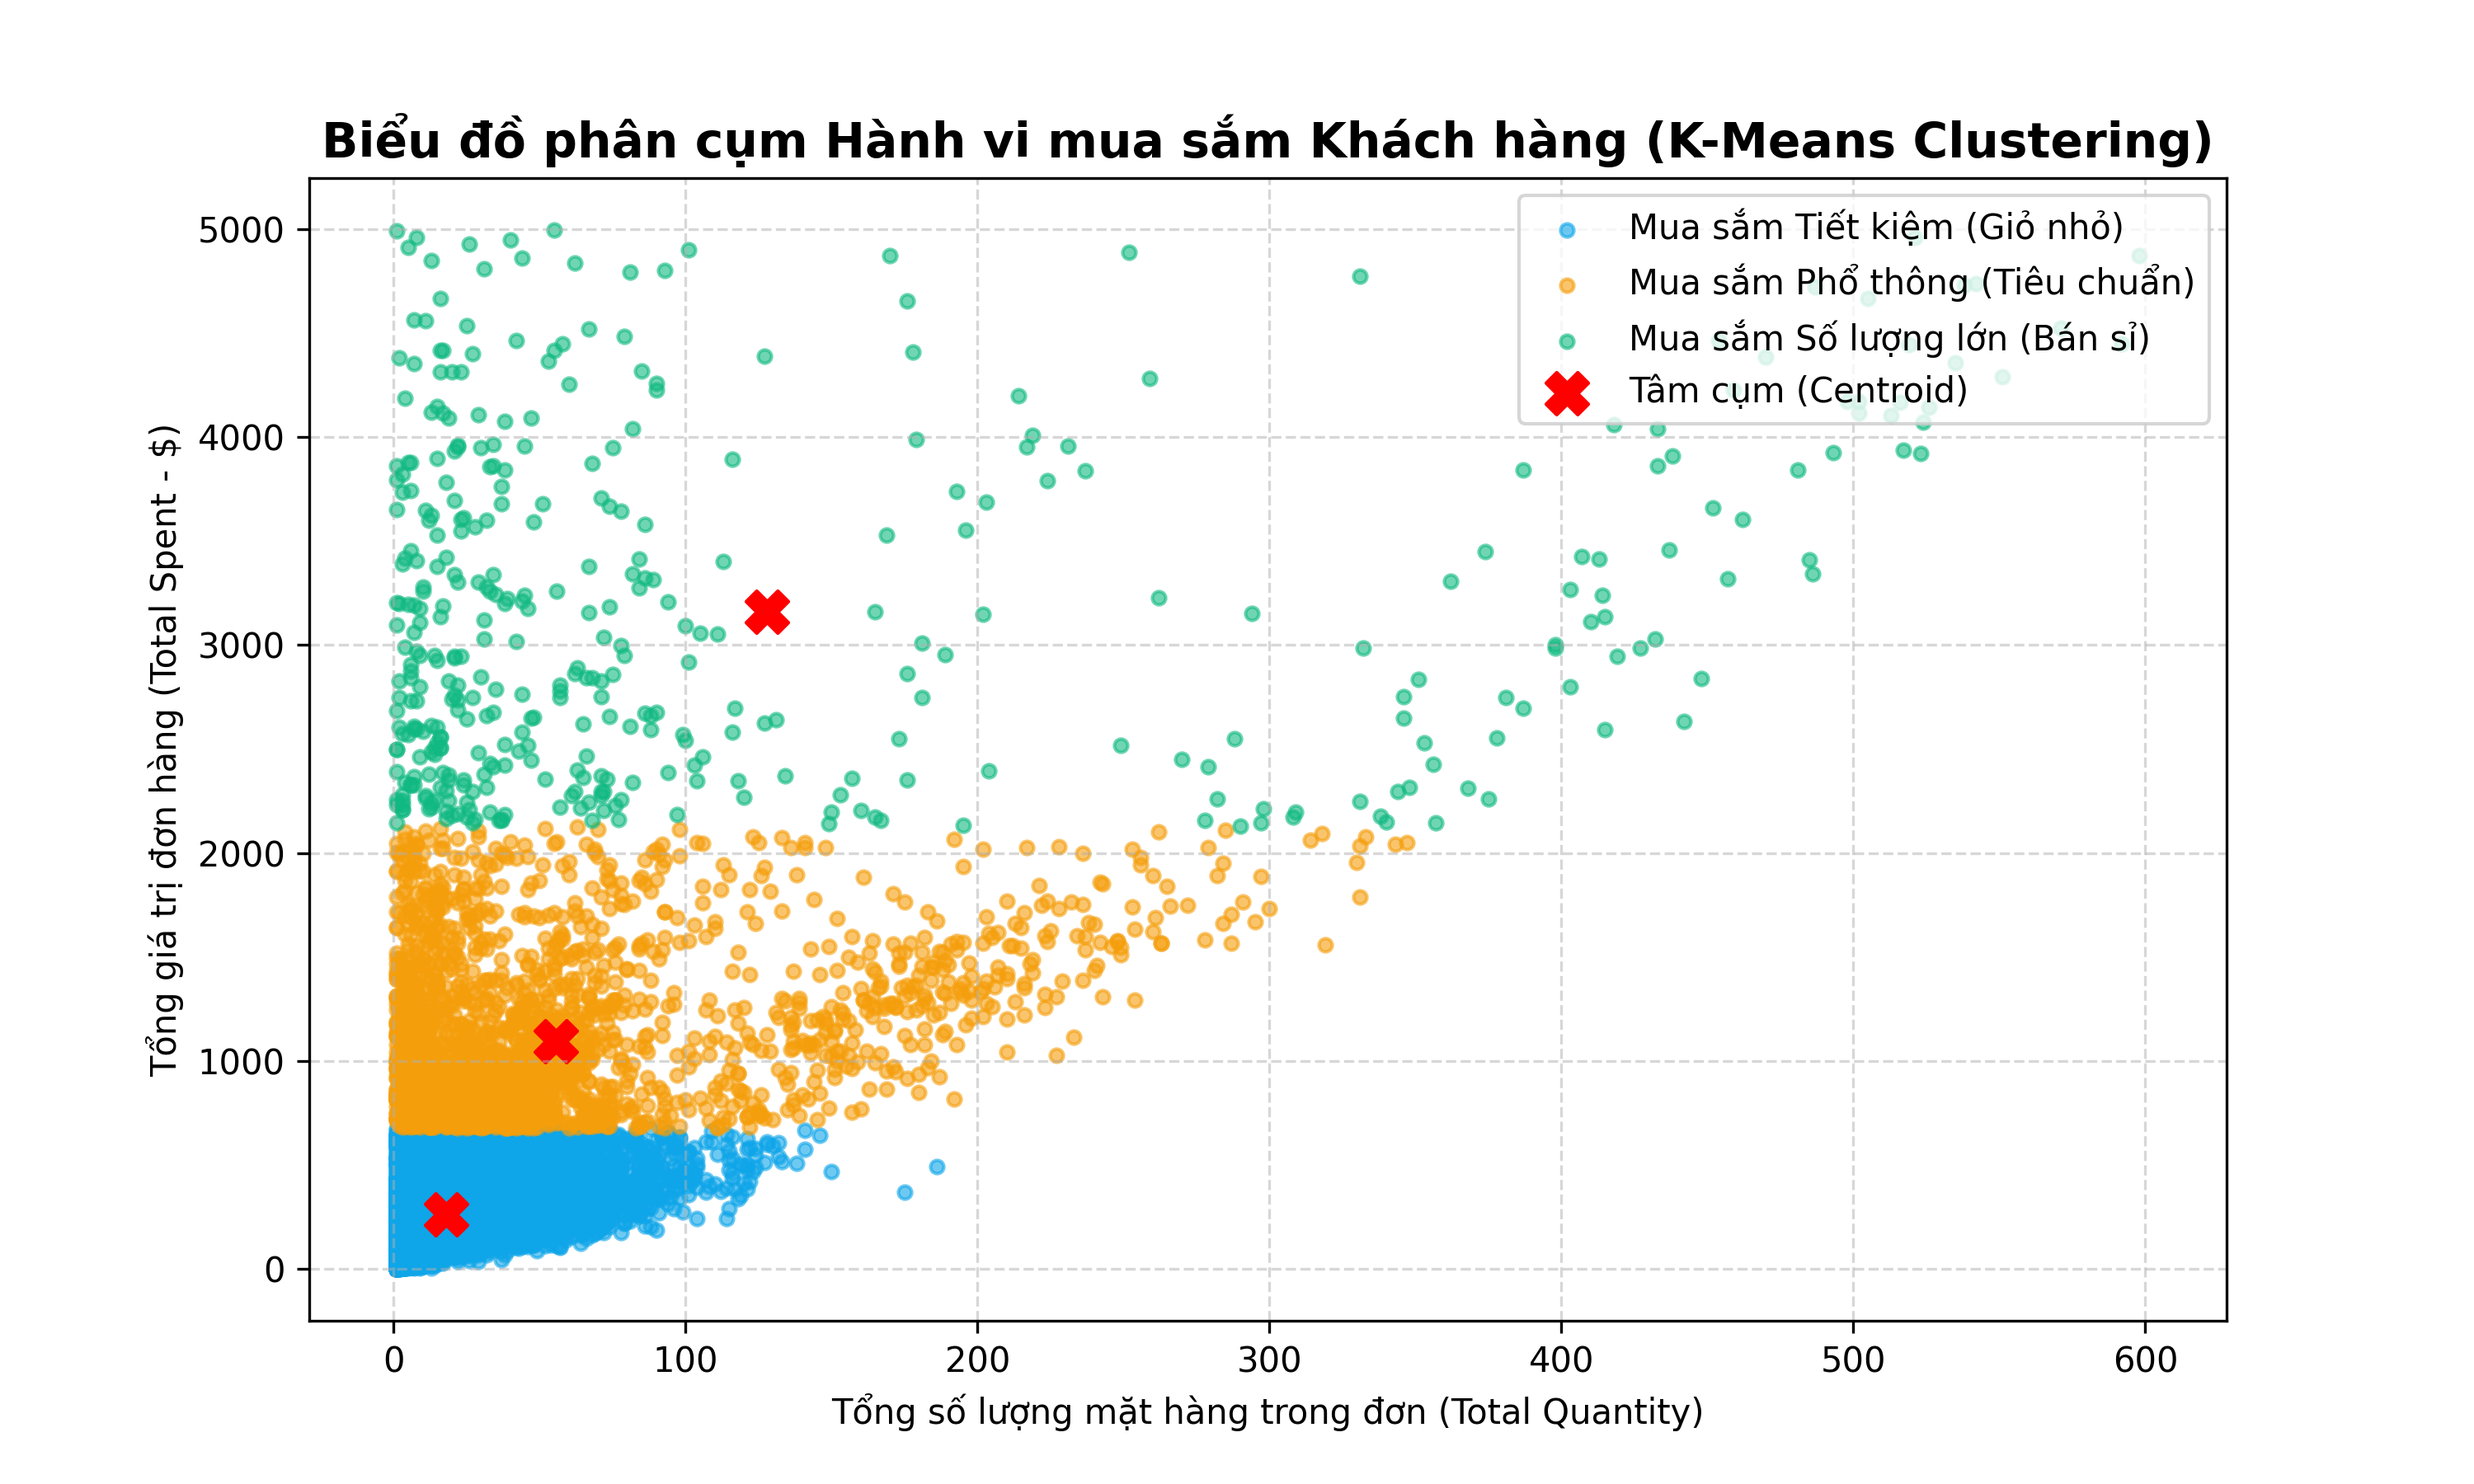
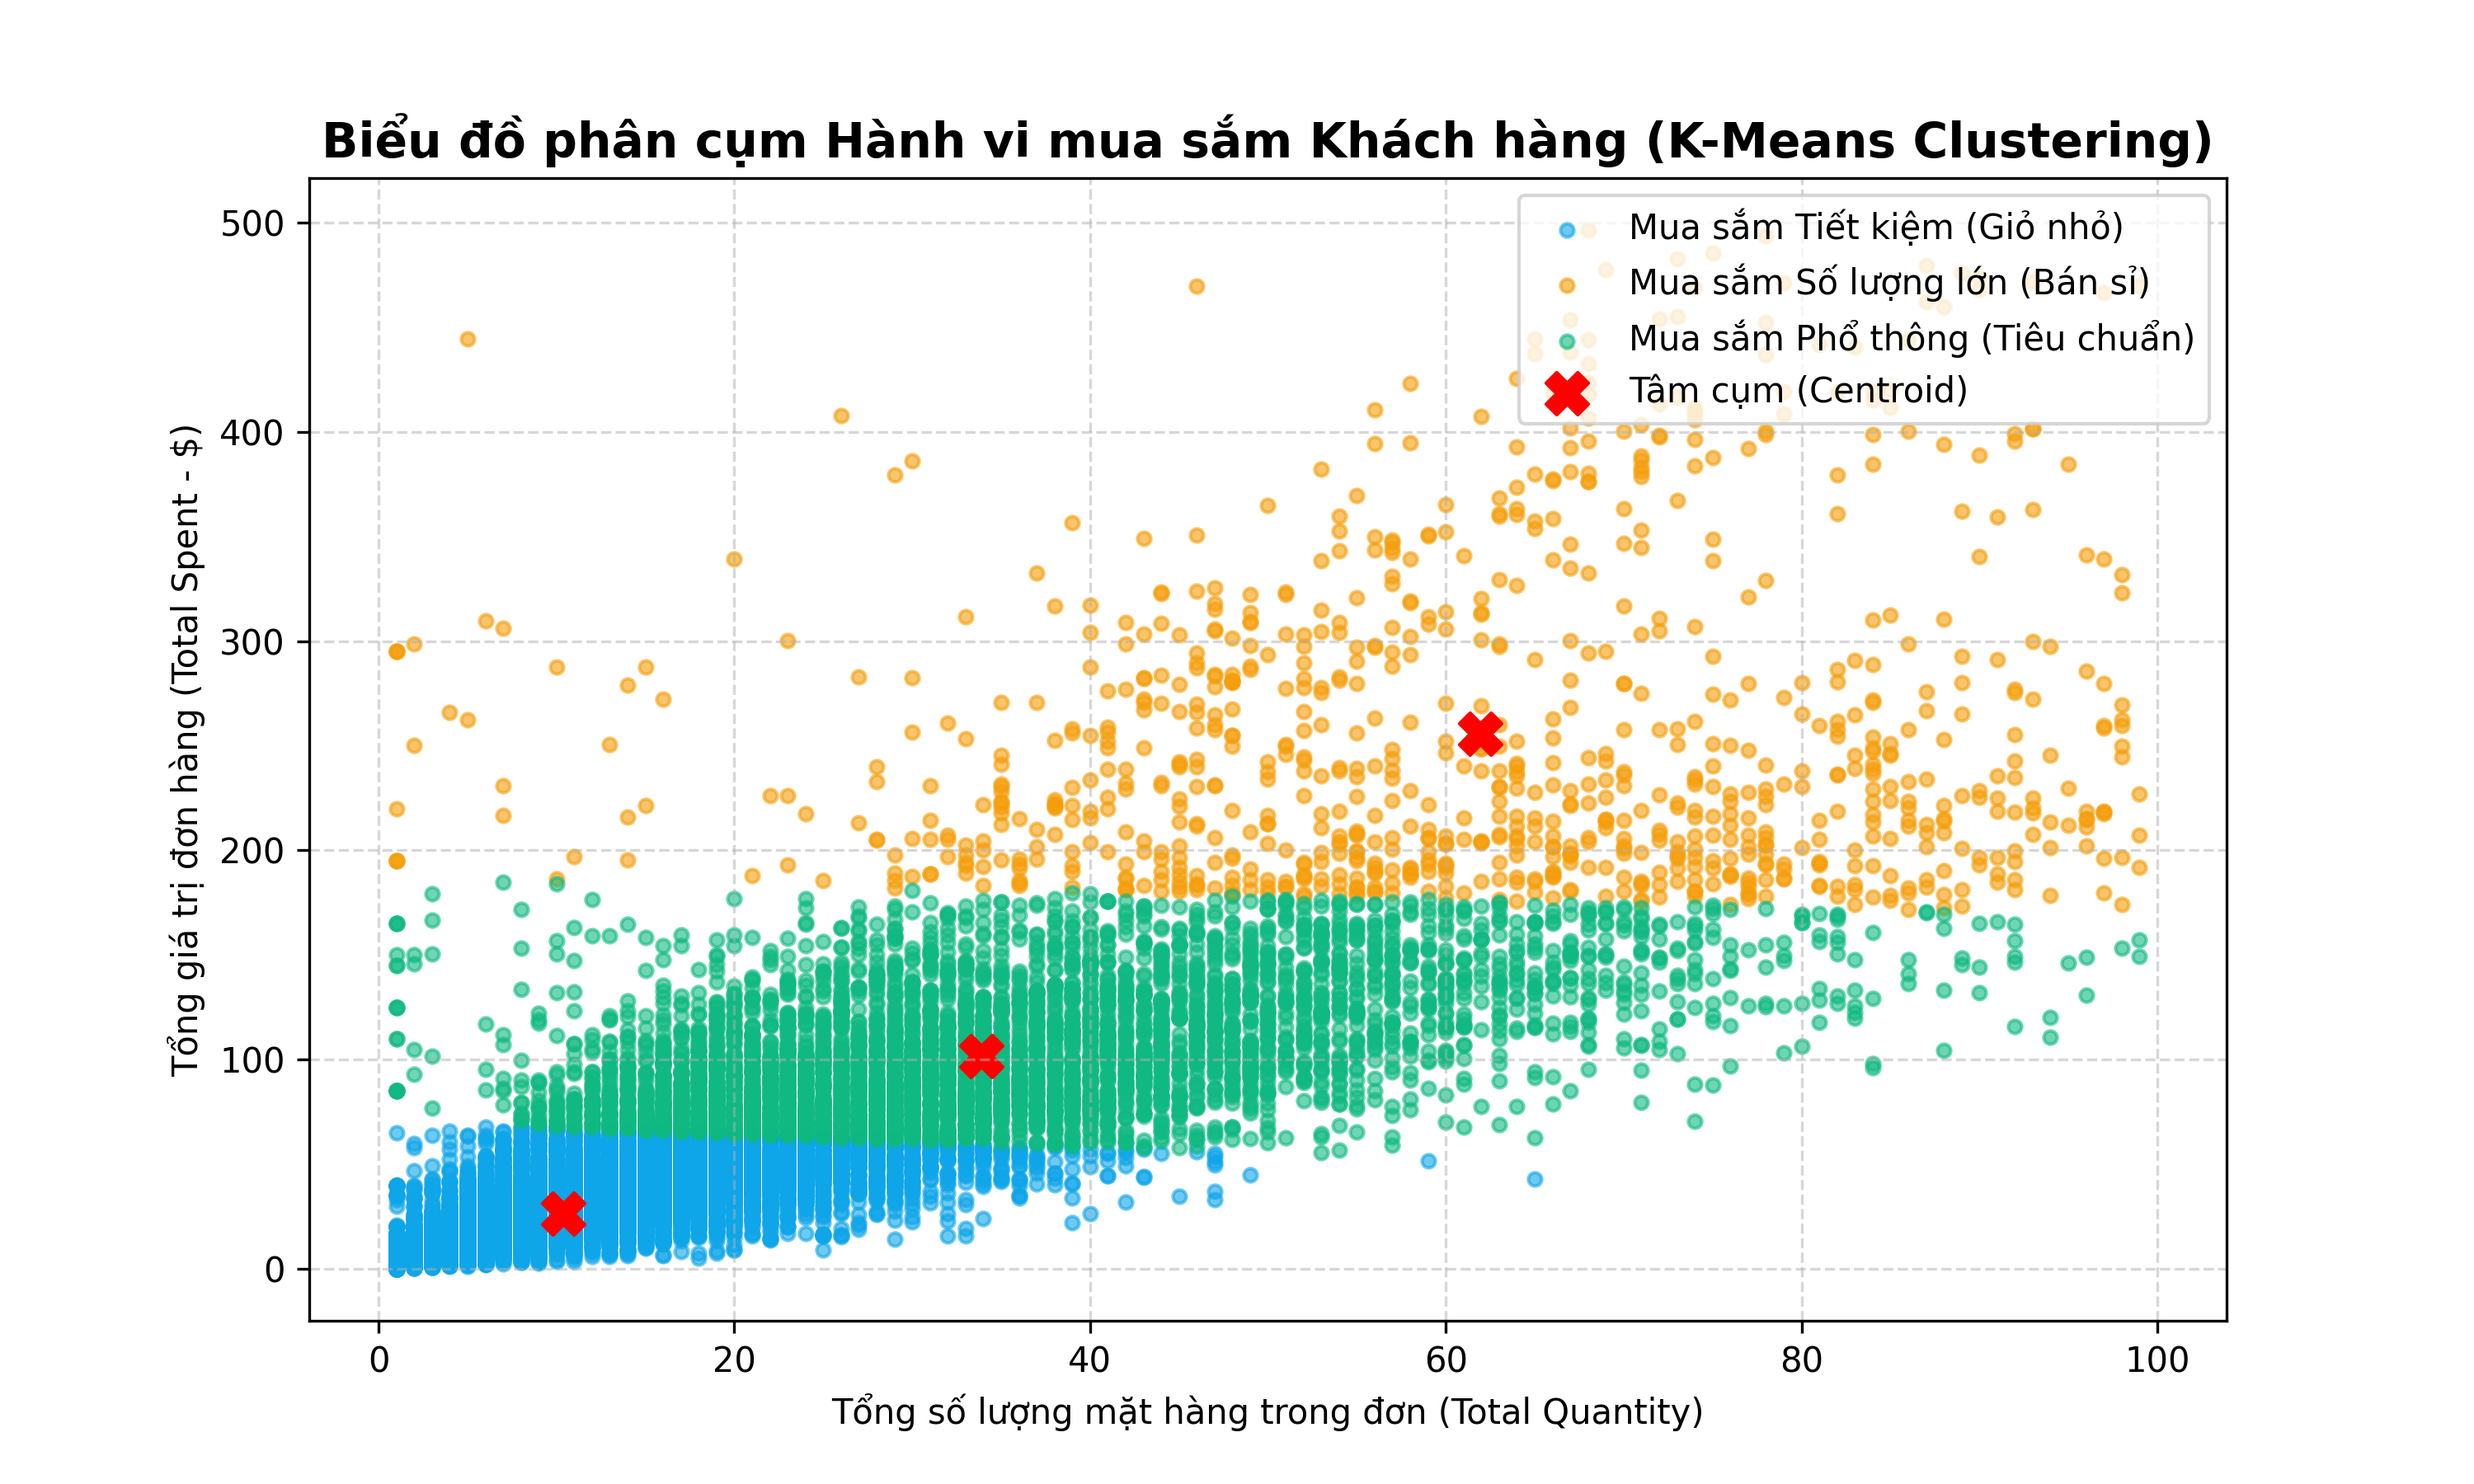
bbbb

diff --git a/order_clustering.py b/order_clustering.py
@@ -5,36 +5,35 @@ import matplotlib.pyplot as plt
 import seaborn as sns
 from db_helper import DatabaseHelper
 from sklearn.cluster import KMeans
-
+from sqlalchemy import types
 def execute_clustering():
     """
     Thực hiện thuật toán K-Means gom cụm hành vi mua sắm từ lịch sử hóa đơn.
-    Áp dụng kiến thức Chương IV & V tài liệu HUIT.
+    Đã sửa lỗi lệch index tên cụm để đồng bộ hoàn hảo với hệ thống.
     """
     db = DatabaseHelper()
     
     # 1. Thu thập dữ liệu tổng hợp theo từng Hóa đơn (BillNo)
     print("--- Đang tải dữ liệu hóa đơn từ SQL Server... ---")
-    # SỬA LẠI TRONG FILE order_clustering.py
     query = """
         SELECT BillNo, 
-           COUNT(Itemname) as TotalQuantity, 
-           SUM(Quantity * Price) as TotalSpent
-    FROM CleanedTransactions
-    GROUP BY BillNo
+               COUNT(Itemname) as TotalQuantity, 
+               SUM(Price) as TotalSpent
+        FROM CleanedTransactions
+        GROUP BY BillNo
     """
     df_orders = db.fetch_data(query)
     
     if df_orders.empty or len(df_orders) < 3:
         return {"error": "Dữ liệu hóa đơn quá ít, không thể phân cụm."}
         
-    # Loại bỏ các hóa đơn ngoại lai quá lớn (outliers) để thuật toán K-Means phân cụm đẹp hơn
-    df_orders = df_orders[(df_orders['TotalQuantity'] < 2000) & (df_orders['TotalSpent'] < 5000)]
+    # Loại bỏ các hóa đơn ngoại lai quá lớn (outliers) giúp đồ thị phân cụm đẹp mắt hơn
+    df_orders = df_orders[(df_orders['TotalQuantity'] < 100) & (df_orders['TotalSpent'] < 500)]
     
     # 2. Chuẩn bị đặc trưng đưa vào mô hình (X)
     X = df_orders[['TotalQuantity', 'TotalSpent']].values
     
-    # 3. Khởi chạy thuật toán K-Means với K = 3 cụm hành vi mẫu
+    # 3. Khởi chạy thuật toán K-Means với K = 3 cụm
     print("--- Đang tiến hành phân cụm dữ liệu bằng K-Means... ---")
     start_time = time.time()
     kmeans = KMeans(n_clusters=3, init='k-means++', random_state=42, n_init=10)
@@ -44,7 +43,7 @@ def execute_clustering():
     # Lấy tọa độ tâm của các cụm (Centroids)
     centroids = kmeans.cluster_centers_
     
-    # Định nhãn tên cụm thông minh dựa trên vị trí giá trị chi tiêu của tâm cụm
+    # Định nhãn tên cụm chính xác dựa trên giá trị chi tiêu tăng dần của tâm cụm
     cluster_order = np.argsort(centroids[:, 1]) # Sắp xếp theo thứ tự chi tiêu tăng dần
     cluster_mapping = {
         cluster_order[0]: "Mua sắm Tiết kiệm (Giỏ nhỏ)",
@@ -63,7 +62,7 @@ def execute_clustering():
         plt.scatter(cluster_data['TotalQuantity'], cluster_data['TotalSpent'], 
                     label=cluster_mapping[cluster_id], alpha=0.6, s=15, c=colors[cluster_id])
                     
-    # Vẽ các điểm tâm cụm (Centroids) lên đồ thị bằng dấu X màu đỏ nổi bật
+    # Vẽ các điểm tâm cụm (Centroids) bằng dấu X màu đỏ nổi bật
     plt.scatter(centroids[:, 0], centroids[:, 1], s=150, c='red', marker='X', label='Tâm cụm (Centroid)')
     
     plt.title('Biểu đồ phân cụm Hành vi mua sắm Khách hàng (K-Means Clustering)', fontsize=14, fontweight='bold')
@@ -74,26 +73,26 @@ def execute_clustering():
     plt.savefig('shopping_clusters.png', dpi=300)
     plt.close()
     
-    # 5. Lưu trữ tọa độ tâm cụm vào CSDL SQL Server để phục vụ tính khoảng cách ở Backend
-    df_centroids = pd.DataFrame({
-        'ClusterID': list(cluster_mapping.keys()),
-        'ClusterName': list(cluster_mapping.values()),
-        'Centroid_Qty': centroids[:, 0],
-        'Centroid_Spent': centroids[:, 1]
-    })
+    # 5. Đồng bộ kết quả phân cụm (Cluster Centroids) vào bảng ClusterCentroids trong SQL Server
+    centroid_list = []
+    for cluster_id in range(3):
+        centroid_list.append({
+            'ClusterID': cluster_id,
+            'ClusterName': cluster_mapping[cluster_id],
+            'Centroid_Qty': float(centroids[cluster_id, 0]),
+            'Centroid_Spent': float(centroids[cluster_id, 1])
+        })
+    df_centroids = pd.DataFrame(centroid_list)
     
     try:
         engine = db.get_engine()
-        df_centroids.to_sql('ClusterCentroids', con=engine, if_exists='replace', index=False)
+        
+        sql_types = {
+            'ClusterName': types.NVARCHAR(length=100)
+        }
+        
+        # Thêm tham số dtype=sql_types vào lệnh to_sql
+        df_centroids.to_sql('ClusterCentroids', con=engine, if_exists='replace', index=False, dtype=sql_types)
         print("--- ĐÃ ĐỒNG BỘ TÂM CỤM K-MEANS VÀO SQL SERVER THÀNH CÔNG! ---")
     except Exception as e:
         print(f"Lỗi khi lưu tâm cụm: {e}")
-        
-    return {
-        "execution_time": round(end_time - start_time, 4),
-        "status": "Phân cụm hành vi bằng K-Means thành công!",
-        "centroids": df_centroids.to_dict(orient='records')
-    }
-
-if __name__ == '__main__':
-    print(execute_clustering())

diff --git a/recommendation_service.py b/recommendation_service.py
@@ -1,3 +1,5 @@
+import numpy as np
+
 from db_helper import DatabaseHelper
 
 class RecommendationService:
@@ -86,28 +88,14 @@ class RecommendationService:
     def classify_live_cart(self, cart_items):
         """
         Dự báo phân cụm hành vi cho Giỏ hàng hiện tại dựa trên khoảng cách Euclidean đến các tâm cụm.
-        Áp dụng công thức tính toán khoảng cách Chương III & IV bài giảng.
         """
         if not cart_items:
             return "Giỏ hàng trống"
             
-        # 1. Tính toán giá trị đặc trưng hiện tại của giỏ hàng
-        # Lấy giá của các món ăn từ DB để tính tổng số tiền
-        cart_set = ["'" + str(item).replace("'", "''") + "'" for item in cart_items]
-        query = f"SELECT Itemname, Price FROM CleanedTransactions WHERE Itemname IN ({','.join(cart_set)})"
-        
-        total_qty = len(cart_items) # Đặc trưng 1: Tổng số lượng
-        total_spent = 0.0           # Đặc trưng 2: Tổng giá trị tiền
-        
-        try:
-            df_prices = self.db.fetch_data(query)
-            price_map = pd.Series(df_prices.Price.values, index=df_prices.Itemname).to_dict()
-            for item in cart_items:
-                total_spent += price_map.get(item.upper().strip(), 15.0) # Nếu không có giá mặc định là 15$
-        except Exception:
-            total_spent = total_qty * 15.0
+        total_qty = len(cart_items) 
+        global_avg_price = 3.0 
+        total_spent = total_qty * global_avg_price
             
-        # 2. Tải tọa độ 3 tâm cụm K-Means từ bảng ClusterCentroids lên bộ nhớ
         try:
             df_centroids = self.db.fetch_data("SELECT * FROM ClusterCentroids")
             if df_centroids.empty:
@@ -116,14 +104,13 @@ class RecommendationService:
             best_cluster = None
             min_distance = float('inf')
             
-            # 3. Áp dụng Công thức Euclidean đo khoảng cách: Căn bậc hai của tổng bình phương hiệu tọa độ
+            # Tính toán khoảng cách Euclidean
             for _, row in df_centroids.iterrows():
                 dist = np.sqrt(
                     (total_qty - row['Centroid_Qty'])**2 + 
                     (total_spent - row['Centroid_Spent'])**2
                 )
                 
-                # Tìm tâm cụm có khoảng cách ngắn nhất đến giỏ hàng
                 if dist < min_distance:
                     min_distance = dist
                     best_cluster = row['ClusterName']
